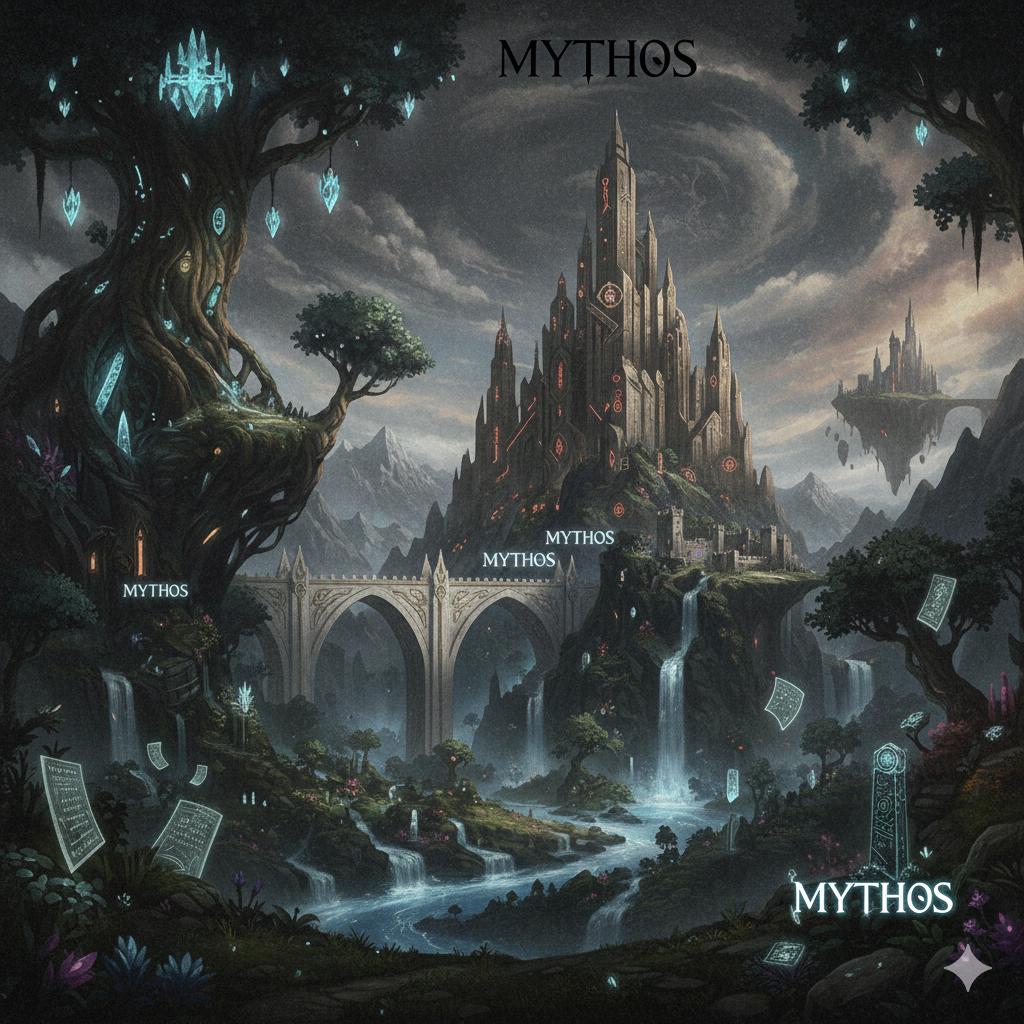
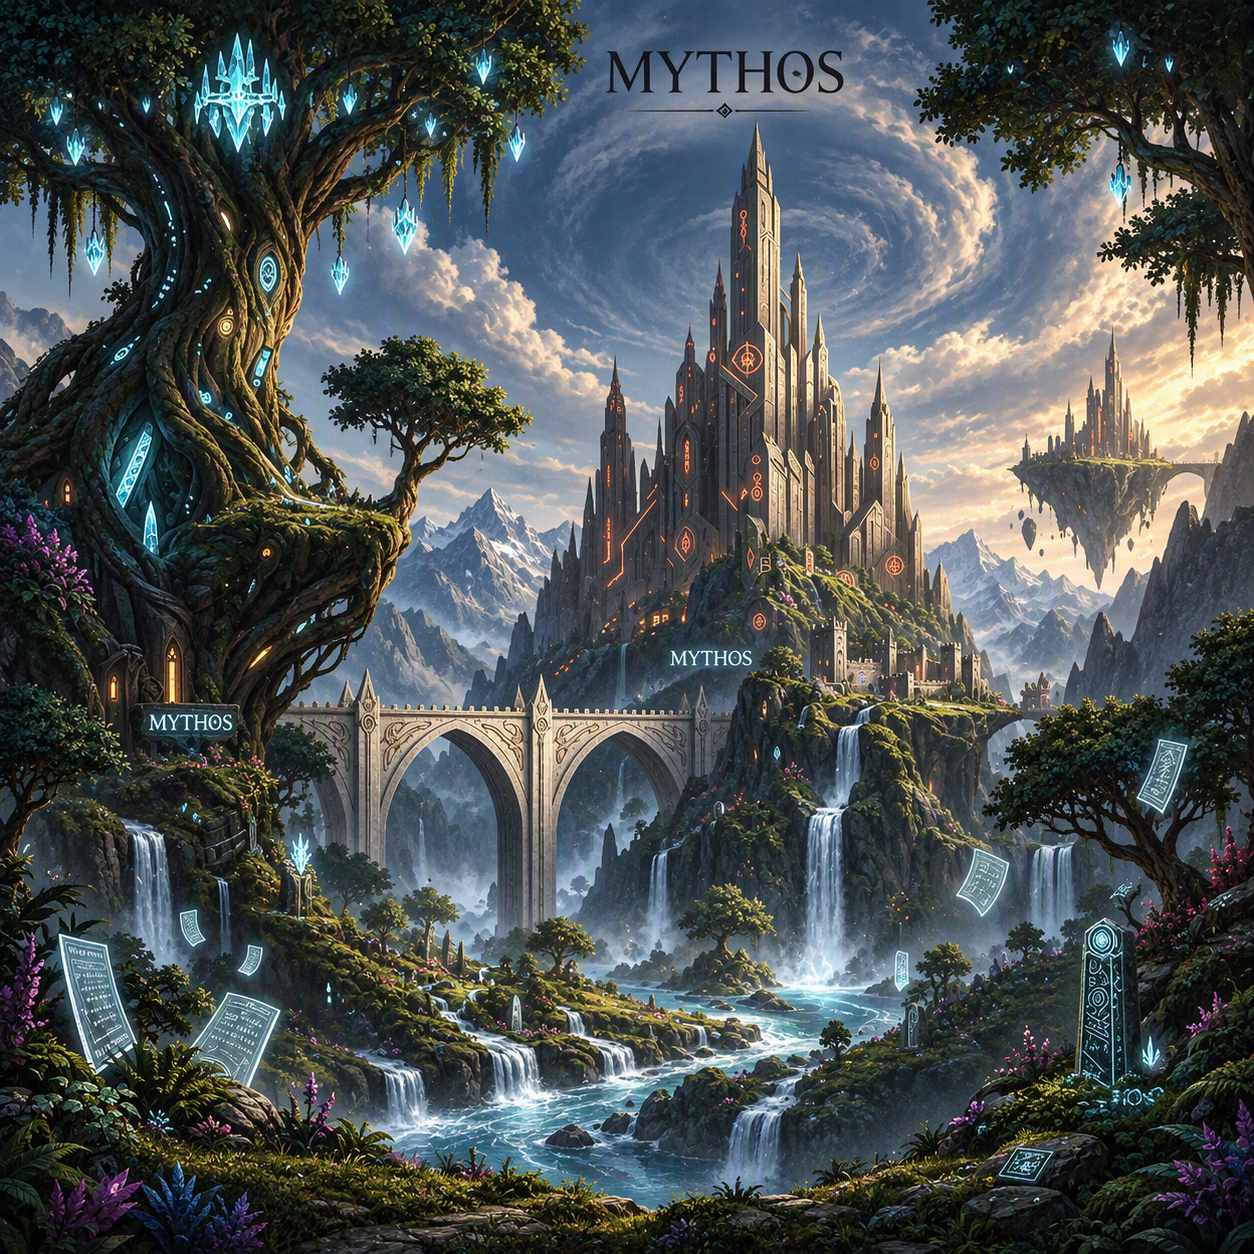
Add files via upload

diff --git a/index.html b/index.html
@@ -61,6 +61,41 @@
         .view { display: none; height: 100%; overflow-y: auto; padding-top: 20px; padding-bottom: 180px; flex-direction: column; align-items: center; }
         .view.active { display: flex; }
 
+/* --- BATTLE SCREEN FIT --- */
+
+#view-arena {
+    height: calc(100vh - 80px);
+    padding: 10px 0;
+    overflow: hidden;
+    justify-content: space-between;
+}
+
+#view-arena .lp-scoreboard {
+    margin: 4px 0;
+    padding: 6px 15px;
+}
+
+#view-arena .lp-val {
+    font-size: 1.5rem;
+}
+
+#view-arena .field-zone {
+    margin-bottom: 4px;
+    padding: 6px;
+}
+
+#view-arena .zone-title {
+    margin-bottom: 3px;
+}
+
+#view-arena .card-row {
+    max-height: 30vh;
+}
+
+#view-arena .card-slot {
+    max-height: 230px;
+}
+
         /* --- SCOREBOARDS --- */
         .lp-scoreboard {
             width: 95%; max-width: 450px;
@@ -146,6 +181,7 @@
         #modal-summon { z-index: 4100; } 
         #modal-detail { z-index: 4200; } 
         #modal-gameover { z-index: 5000; }
+#modal-help { z-index: 5100; }
 
         .col-grid { display: grid; grid-template-columns: repeat(auto-fill, minmax(100px, 1fr)); gap: 15px; padding: 10px; }
         .col-card { opacity: 0.5; position: relative; cursor: pointer; }
@@ -337,25 +373,78 @@
             { id: 16, name: "Elder Lich", lvl: 7, atk: 2500, hp: 2100, img: "lich.jpg", el: "nature", desc: "A master of necrotic arts." }
         ];
 
-        const game = {
-            data: {
-                gold: 500, turn: 'player', pLP: 4000, eLP: 4000,
-                pField: [null, null, null], eField: [null, null, null],
-                collection: [4, 8, 3, 5], selectedIdx: null, canSummon: true,
-                tributeMode: false, tributeTargetCount: 0, tributesSelected: [],
-                pendingSummonId: null, pendingDirectIdx: null, detailId: null
-            },
-            init: function() {
-                if(localStorage.getItem('mythos_final_v7')) {
-                    const s = JSON.parse(localStorage.getItem('mythos_final_v7'));
-                    this.data.collection = s.collection; this.data.gold = s.gold;
-                }
-                this.updateGoldUI();
-            },
+const SAVE_VERSION = 2;
+const SAVE_KEY = 'mythos_save';
+
+      const game = {
+    data: {
+        gold: 500,
+        wins: 0,
+        losses: 0,
+        packsOpened: 0,
+        totalGoldEarned: 0,
+
+        turn: 'player',
+        pLP: 4000,
+        eLP: 4000,
+        pField: [null, null, null],
+        eField: [null, null, null],
+        collection: [4, 8, 3, 5],
+        selectedIdx: null,
+        canSummon: true,
+        tributeMode: false,
+        tributeTargetCount: 0,
+        tributesSelected: [],
+        pendingSummonId: null,
+        pendingDirectIdx: null,
+        detailId: null
+    },            init: function() {
+    const newSave = localStorage.getItem(SAVE_KEY);
+    const oldSave = localStorage.getItem('mythos_final_v7');
+
+    if (newSave) {
+        const s = JSON.parse(newSave);
+
+        this.data.collection = s.collection ?? this.data.collection;
+        this.data.gold = s.gold ?? this.data.gold;
+        this.data.wins = s.wins ?? 0;
+        this.data.losses = s.losses ?? 0;
+        this.data.packsOpened = s.packsOpened ?? 0;
+        this.data.totalGoldEarned = s.totalGoldEarned ?? 0;
+
+    } else if (oldSave) {
+        const s = JSON.parse(oldSave);
+
+        this.data.collection = s.collection ?? this.data.collection;
+        this.data.gold = s.gold ?? this.data.gold;
+
+        this.data.wins = 0;
+        this.data.losses = 0;
+        this.data.packsOpened = 0;
+        this.data.totalGoldEarned = 0;
+
+        this.save();
+    }
+
+    this.updateGoldUI();
+},
+
             save: function() {
-                localStorage.setItem('mythos_final_v7', JSON.stringify({collection:this.data.collection, gold:this.data.gold}));
-                this.updateGoldUI();
-            },
+    const saveData = {
+        version: SAVE_VERSION,
+        collection: this.data.collection,
+        gold: this.data.gold,
+        wins: this.data.wins,
+        losses: this.data.losses,
+        packsOpened: this.data.packsOpened,
+        totalGoldEarned: this.data.totalGoldEarned
+    };
+
+    localStorage.setItem(SAVE_KEY, JSON.stringify(saveData));
+
+    this.updateGoldUI();
+},
+            
             updateGoldUI: function() { document.getElementById('gold-display').innerText = this.data.gold; },
             
             startBattle: function() {
@@ -578,13 +667,28 @@
                 else if(this.data.pLP <= 0) this.gameOver(false);
             },
             gameOver: function(isWin) {
-                const modal = document.getElementById('modal-gameover');
-                modal.style.display = 'flex';
-                document.getElementById('go-title').innerText = isWin ? "VICTORY" : "DEFEAT";
-                document.getElementById('go-reward').innerText = isWin ? "+300 Gold" : "+50 Gold";
-                this.data.gold += isWin ? 300 : 50;
-                this.save();
-            }
+    const modal = document.getElementById('modal-gameover');
+
+    modal.style.display = 'flex';
+
+    document.getElementById('go-title').innerText =
+        isWin ? "VICTORY" : "DEFEAT";
+
+    document.getElementById('go-reward').innerText =
+        isWin ? "+300 Gold" : "+50 Gold";
+
+    if (isWin) {
+        this.data.wins++;
+        this.data.gold += 300;
+        this.data.totalGoldEarned += 300;
+    } else {
+        this.data.losses++;
+        this.data.gold += 50;
+        this.data.totalGoldEarned += 50;
+    }
+
+    this.save();
+}
         };
 
         const ui = {
@@ -603,13 +707,21 @@
                 document.getElementById('view-'+view).classList.add('active');
                 if(view === 'collection') this.renderCol();
             },
-            openHelp: function() { document.getElementById('modal-help').style.display = 'flex'; },
-            
-            startFullscreen: function() {
-                const elem = document.documentElement;
-                if (elem.requestFullscreen) { elem.requestFullscreen(); } 
-                else if (elem.webkitRequestFullscreen) { elem.webkitRequestFullscreen(); } 
-            },
+            openHelp: function() {
+    document.getElementById('modal-help').style.display = 'flex';
+},
+
+startFullscreen: function() {
+    const elem = document.documentElement;
+
+    if (elem.requestFullscreen) {
+        elem.requestFullscreen();
+    } else if (elem.webkitRequestFullscreen) {
+        elem.webkitRequestFullscreen();
+    }
+},
+
+
 
             fxDamage: function(n, el, msg="", color="#fff") {
                 if(!el) return;
@@ -657,6 +769,7 @@
             buy: function() {
                 if(game.data.gold < 200) return ui.fxDamage("Too Poor", document.getElementById('gold-badge'), "Need 200G", "#aaa");
                 game.data.gold -= 200;
+game.data.packsOpened++;
                 const rnd = DB[Math.floor(Math.random()*DB.length)];
                 game.data.collection.push(rnd.id);
                 game.save();
